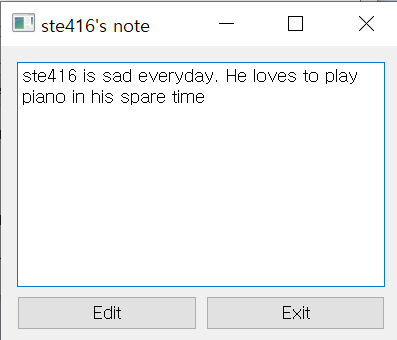
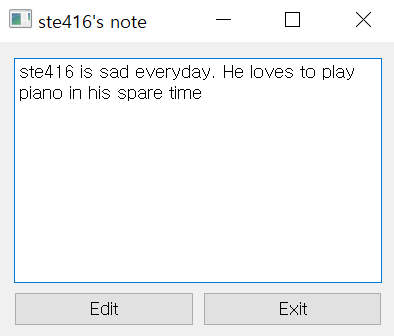
README_v1.3
added view and edit notes as a therapist

Changed region(s): [[0.0305, 0.1786, 0.9746, 0.9821], [0.0, 0.0, 1.0, 0.119], [0.5482, 0.0595, 0.5787, 0.0893]]

diff --git a/README.md b/README.md
@@ -15,7 +15,7 @@ Implemented database connection from Python GUI to MySQL.  Therapy Game and aski
 <img width="202" alt="loginpage" src="https://user-images.githubusercontent.com/37283117/147423137-c44d86b5-8988-4f8f-8b5b-998e974797dd.png">
 
 
-## Patient Window Starts with?
+## Patient Window after login
 -------------------------------------
 1. Plays a Color Game
 <img width="223" alt="Patient_Game" src="https://user-images.githubusercontent.com/37283117/147620492-6fbd5e25-0ac5-4b45-96c9-cc4352921eed.png">
@@ -29,10 +29,13 @@ Implemented database connection from Python GUI to MySQL.  Therapy Game and aski
 -------------------------------------------
 <img width="247" alt="Therapist_window" src="https://user-images.githubusercontent.com/37283117/147620009-81d6305f-402f-4ad6-a4d3-c75e2a16daa3.png">
 
-### What can you do as a therapist? 
+## What can you do as a therapist? 
 ------------------------------------------------
-1. ViewAll Patients
+1. View all patients and their notes/ edit notes
 <img width="246" alt="Therapist_ViewAll" src="https://user-images.githubusercontent.com/37283117/147619975-34353a05-d4e6-4572-9f60-48f2aba47004.png">
+
+> view & edit notes
+<img width="197" alt="Therapist_view_patient_note" src="https://user-images.githubusercontent.com/37283117/147620764-f75e486d-fd61-478f-b237-eb6d56124b04.png">
 
 2. Find Patients with either ID or name
 <img width="246" alt="Therapist_FIndpatient" src="https://user-images.githubusercontent.com/37283117/147620031-75c25ccf-b4ad-4edf-b047-d744e67737dc.png">
